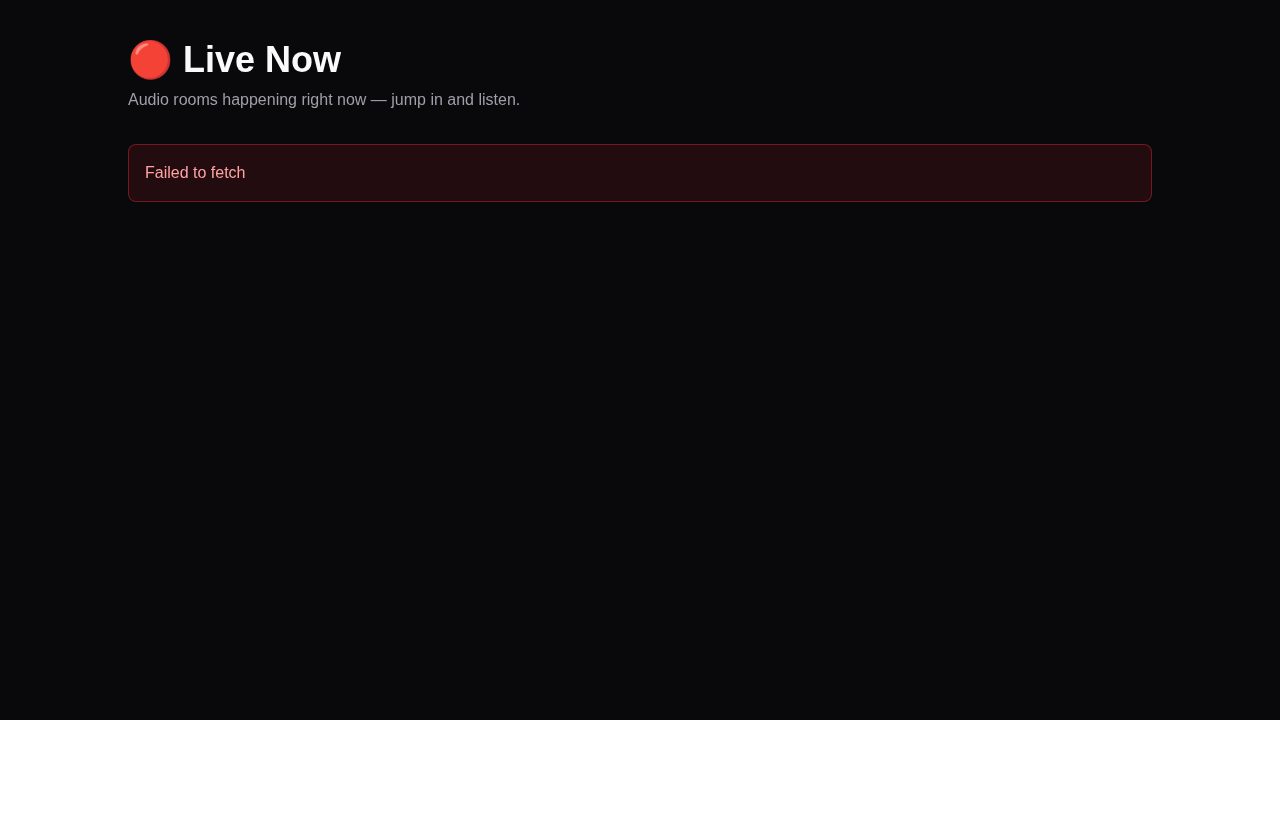
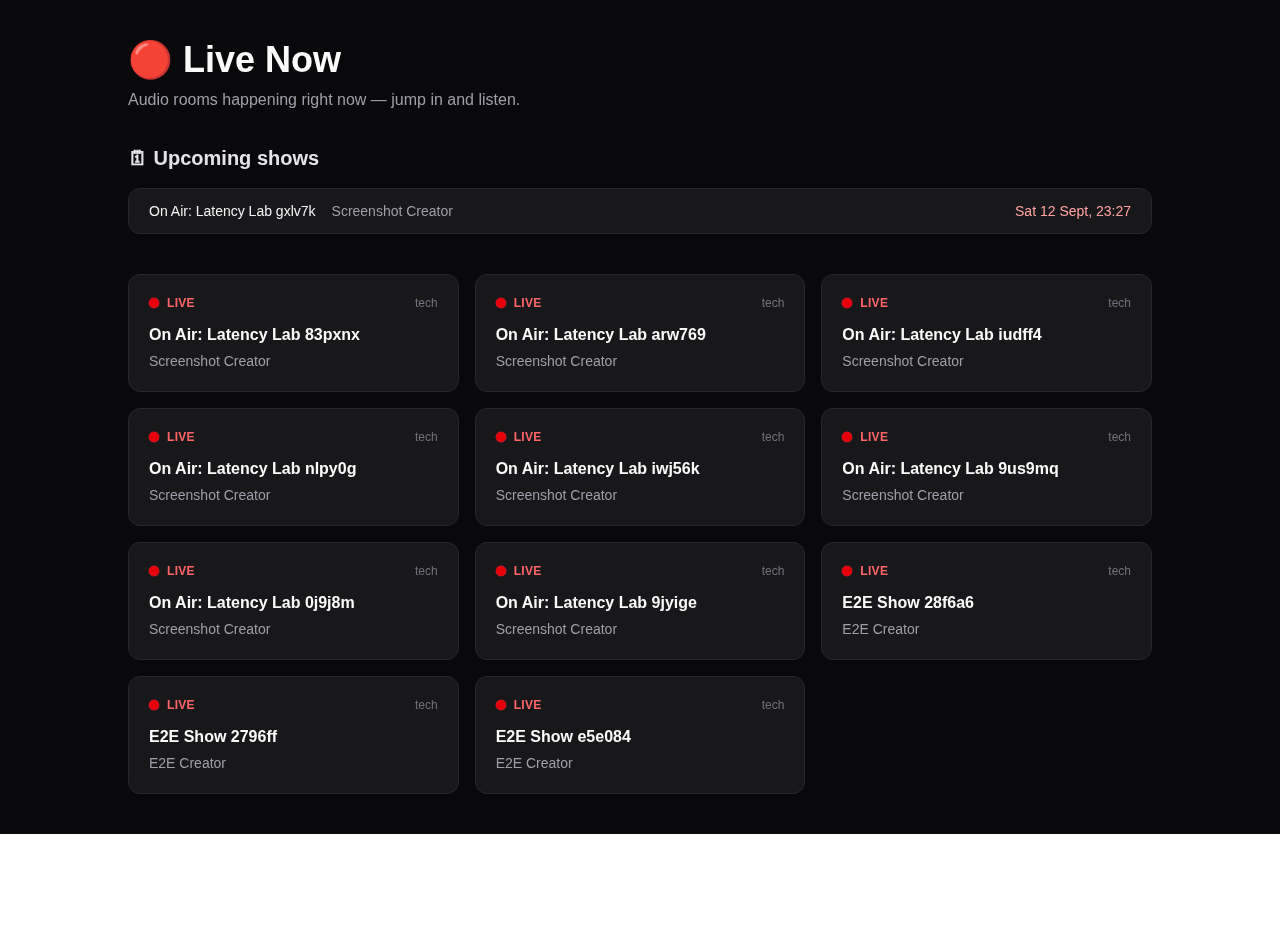
Fix browser-reachability bugs surfaced by the Playwright tour; working screenshots
The screenshot tour exposed four real defects where dev worked only
because host and container ports coincided: NEXT_PUBLIC_API_URL and
NEXT_PUBLIC_WS_URL were never passed into the web image build (every
client fetch hit the default :8080), the ws-gateway rejected
cross-origin WebSocket handshakes from the web origin (chat, captions
and translated audio never connected), and the LiveKit media URL handed
to browsers was the internal service address. Also fixed here: the hash
embedder emitted zero vectors for token-free transcripts, making pgvector
return NaN ranks that crashed JSON encoding into silent zero-byte 200s
(response serialization now fails loudly with a 500, plus a regression
test), and the live room crashed on connect due to a hook called after
conditional returns (React #310). The tour now asserts expected page
content, fails non-zero on broken pages, and generates all 12 shots
against a genuinely live session.

🤖 Generated with Codebuff

diff --git a/apps/web/src/app/live/[id]/page.tsx b/apps/web/src/app/live/[id]/page.tsx
@@ -41,6 +41,13 @@ export default function LiveRoomPage({
   const [error, setError] = useState<string | null>(null);
   const [joining, setJoining] = useState(true);
 
+  // All hooks must run unconditionally: the early returns below (joining/
+  // error/no-join) previously skipped this useCallback, flipping the hook
+  // count when `join` arrived and crashing the room (React error #310).
+  const onLeave = useCallback(() => {
+    api(`/live/${id}/leave`, { method: "POST" }).catch(() => {});
+  }, [id]);
+
   useEffect(() => {
     if (!getAccessToken()) {
       setError("Log in to join live rooms.");
@@ -75,10 +82,6 @@ export default function LiveRoomPage({
   }
 
   if (!join) return null;
-
-  const onLeave = useCallback(() => {
-    api(`/live/${id}/leave`, { method: "POST" }).catch(() => {});
-  }, [id]);
 
   return (
     <main className="min-h-screen bg-zinc-950 text-zinc-50">

diff --git a/apps/api/cmd/ws-gateway/main.go b/apps/api/cmd/ws-gateway/main.go
@@ -12,6 +12,7 @@ import (
 	"net/http"
 	"os"
 	"os/signal"
+	"strings"
 	"syscall"
 	"time"
 
@@ -131,7 +132,7 @@ func serveRoom(hub *hub, w http.ResponseWriter, r *http.Request, logger *slog.Lo
 		return
 	}
 
-	conn, err := websocket.Accept(w, r, nil)
+	conn, err := websocket.Accept(w, r, acceptOptions())
 	if err != nil {
 		logger.Warn("websocket accept failed", slog.Any("error", err))
 		return
@@ -323,4 +324,19 @@ func validReaction(r string) bool {
 		return true
 	}
 	return false
+}
+// acceptOptions permits cross-origin WebSocket handshakes from the allowed
+// web origins (ALLOWED_ORIGINS). The coder/websocket default REJECTS any
+// Origin that does not match the Host — with the web app on :13000 and the
+// gateway on :18081, every browser connect (chat, captions, translated
+// audio) failed with "request Origin ... is not authorized for Host".
+func acceptOptions() *websocket.AcceptOptions {
+	patterns := []string{"localhost:*", "127.0.0.1:*"} // local dev defaults
+	for _, o := range platform.Load("goonj-ws").AllowedOrigins {
+		host := strings.TrimPrefix(strings.TrimPrefix(o, "https://"), "http://")
+		if host != "" {
+			patterns = append(patterns, host)
+		}
+	}
+	return &websocket.AcceptOptions{OriginPatterns: patterns}
 }

diff --git a/apps/api/internal/modules/ai/local_test.go b/apps/api/internal/modules/ai/local_test.go
@@ -35,6 +35,27 @@ func TestHashEmbedderDeterministicAndNormalized(t *testing.T) {
 	}
 }
 
+// TestHashEmbedderNeverZeroVector guards the pgvector NaN trap: a token-free
+// text (".", punctuation, whitespace) would normalize to the zero vector,
+// and cosine distance against zero is NaN. NaN ranks then break JSON
+// encoding (zero-byte 200 responses) and pollute ANN indexes.
+func TestHashEmbedderNeverZeroVector(t *testing.T) {
+	e := NewHashEmbedder(256)
+	vecs, err := e.Embed(context.Background(), []string{".", "   ", "... .", ""})
+	if err != nil {
+		t.Fatalf("embed: %v", err)
+	}
+	for i, v := range vecs {
+		var norm float64
+		for _, x := range v {
+			norm += float64(x) * float64(x)
+		}
+		if math.Abs(norm-1) > 1e-5 {
+			t.Fatalf("case %d: zero/degenerate vector (norm=%f) — must be a unit vector", i, norm)
+		}
+	}
+}
+
 func TestHashEmbedderSimilarTextsCloserThanDissimilar(t *testing.T) {
 	e := NewHashEmbedder(256)
 	vecs, err := e.Embed(context.Background(), []string{

diff --git a/apps/api/internal/modules/search/handlers.go b/apps/api/internal/modules/search/handlers.go
@@ -63,9 +63,20 @@ func (h *Handlers) suggestions(w http.ResponseWriter, r *http.Request) {
 }
 
 func writeJSON(w http.ResponseWriter, code int, body any) {
+	// Marshal first: if encoding fails (NaN/Inf from a bad rank, context bug,
+	// …) we must not have already sent a 200 with no body — clients would see
+	// a silent empty response instead of a real error.
+	raw, err := json.Marshal(body)
+	if err != nil {
+		slog.Error("json marshal failed", slog.Any("error", err))
+		w.Header().Set("Content-Type", "application/json; charset=utf-8")
+		w.WriteHeader(http.StatusInternalServerError)
+		_, _ = w.Write([]byte(`{"error":"response serialization failed"}`))
+		return
+	}
 	w.Header().Set("Content-Type", "application/json; charset=utf-8")
 	w.WriteHeader(code)
-	_ = json.NewEncoder(w).Encode(body)
+	_, _ = w.Write(raw)
 }
 
 func writeErr(w http.ResponseWriter, code int, msg string) {

diff --git a/apps/api/internal/modules/ai/local.go b/apps/api/internal/modules/ai/local.go
@@ -47,9 +47,25 @@ func (h *HashEmbedder) Embed(_ context.Context, texts []string) ([][]float32, er
 			}
 		}
 		normalize(vec)
+		// A token-free text (".", pure punctuation, whitespace) normalizes to
+		// the zero vector. Cosine distance against zero is NaN in pgvector, and
+		// NaN poisons downstream JSON (encoding/json refuses it — callers then
+		// write empty 200 responses). Deterministic unit vector instead.
+		if !hasNonZero(vec) {
+			vec[0] = 1
+		}
 		out = append(out, vec)
 	}
 	return out, nil
+}
+
+func hasNonZero(vec []float32) bool {
+	for _, v := range vec {
+		if v != 0 {
+			return true
+		}
+	}
+	return false
 }
 
 func tokenize(s string) []string {

diff --git a/apps/api/cmd/ws-gateway/translate_audio.go b/apps/api/cmd/ws-gateway/translate_audio.go
@@ -47,7 +47,7 @@ func (h *hub) serveTranslateAudio(w http.ResponseWriter, r *http.Request, logger
 		return
 	}
 
-	conn, err := websocket.Accept(w, r, nil)
+	conn, err := websocket.Accept(w, r, acceptOptions())
 	if err != nil {
 		return
 	}
